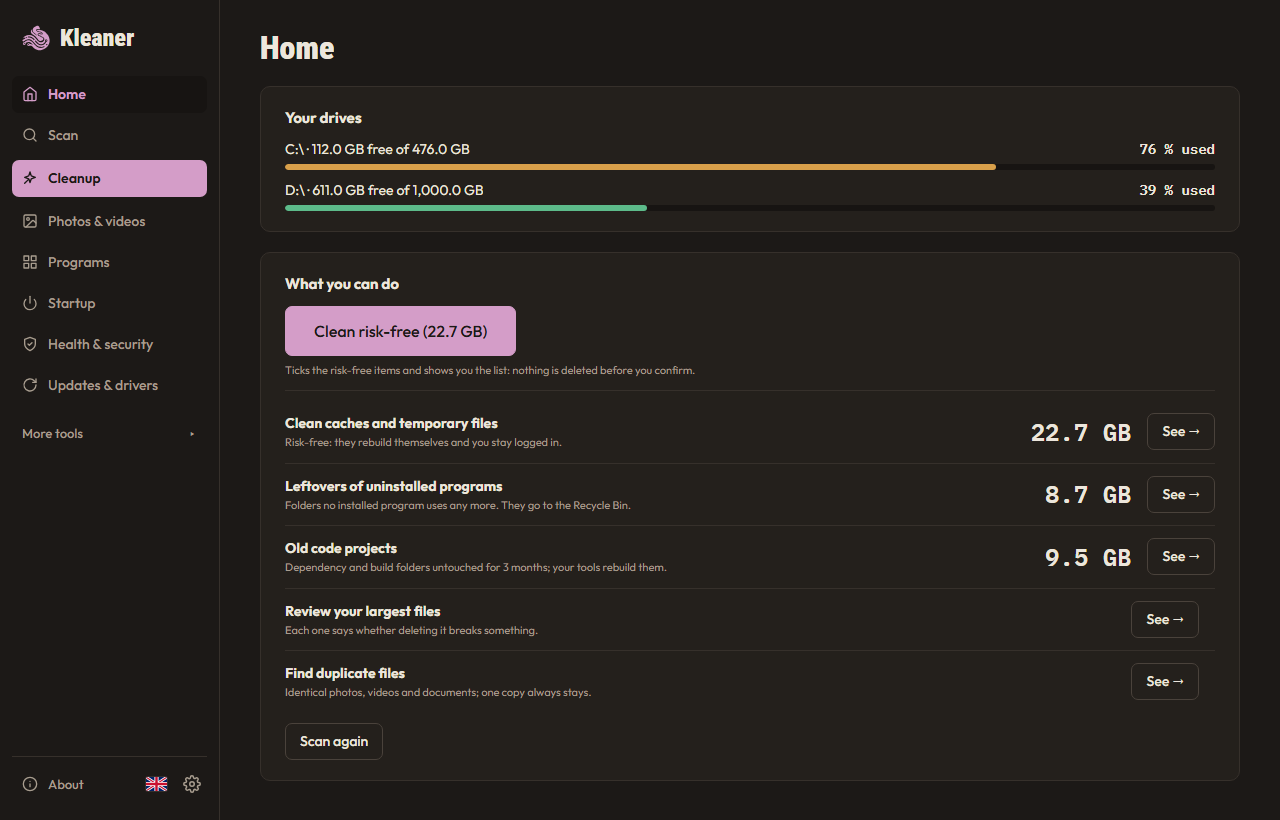
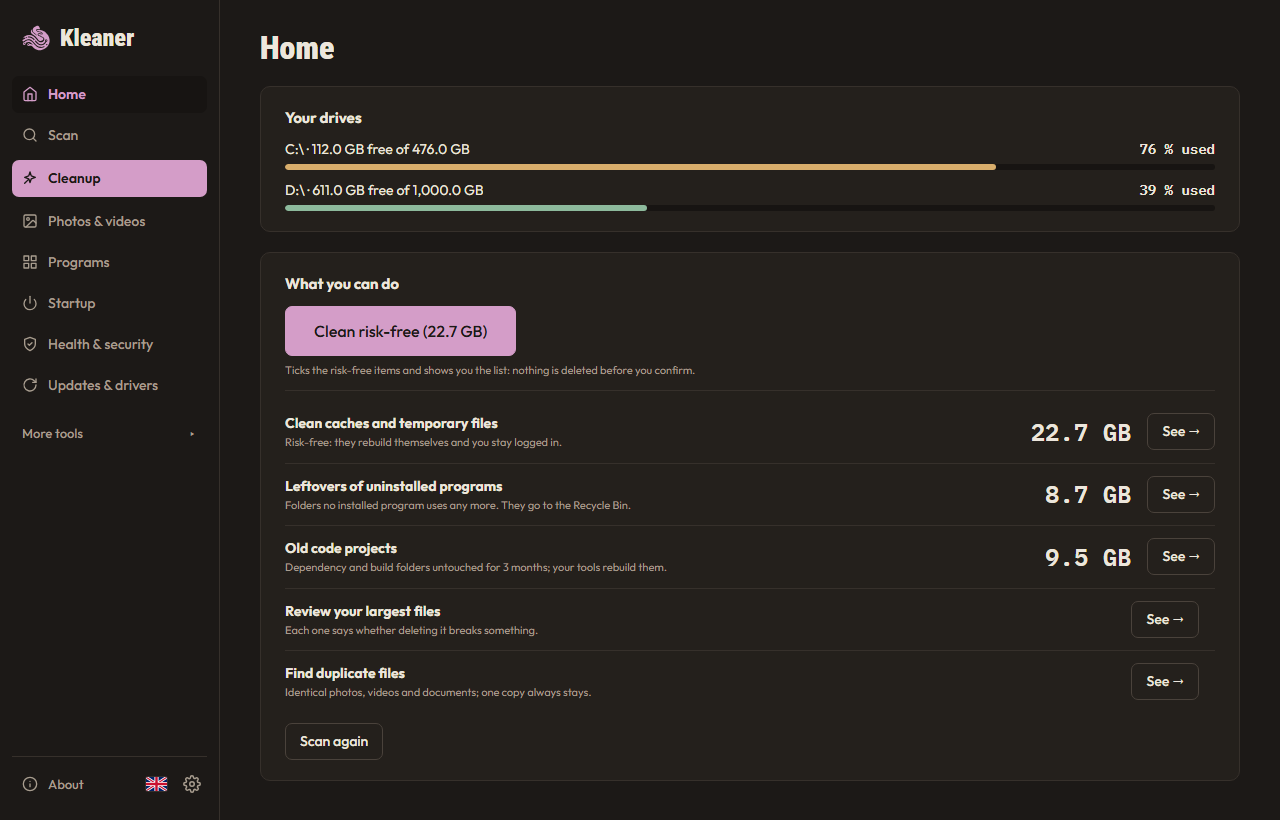
couleurs accordées à l'identité : cases à cocher mauves, statuts en tons terreux, graphique et carte du disque apaisés

Changed region(s): [[0.2188, 0.1829, 0.7812, 0.2134], [0.2188, 0.2439, 0.5, 0.2744]]

diff --git a/src/styles/tokens.css b/src/styles/tokens.css
@@ -27,19 +27,20 @@
   /* Mauve foncé : lisible en texte sur la crème et avec du blanc dessus (contraste >= 4.5:1). */
   --accent: #935683;
   --on-accent: #FFFFFF;
-  /* Couleurs de verdict : jamais le mauve de la marque, pour ne pas confondre accent et alerte. */
-  --danger: #B6324A;
-  --warn: #A6670F;
-  --ok: #2F7D53;
+  /* Couleurs de verdict : tons terreux (sauge, ocre, brique), jamais le mauve de la marque ; texte >= 4.5:1. */
+  --danger: #A23F3A;
+  --warn: #8F6420;
+  --ok: #45725A;
   --shadow: 0 1px 2px rgba(58, 53, 48, 0.05);
 
-  /* Graphiques : couleurs catégorielles, ordre fixe (validées : daltonisme, contraste). */
-  --series-1: #2a78d6;
-  --series-2: #eb6834;
-  --series-3: #1baf7a;
-  --series-4: #eda100;
-  --series-5: #e87ba4;
-  --series-6: #008300;
+  /* Graphiques : couleurs catégorielles accordées à l'identité, ordre fixe ; la légende porte aussi le nom et le %. */
+  --series-1: #935683; /* prune */
+  --series-2: #C17F59; /* terracotta */
+  --series-3: #6E8B6A; /* sauge */
+  --series-4: #C9A24D; /* ocre */
+  --series-5: #5F7FA0; /* bleu gris */
+  --series-6: #8A7B6B; /* taupe */
+  --series-7: #D3CBB8; /* espace libre, neutre */
 
   --radius-card: 10px;
   --radius-ctl: 7px;
@@ -62,16 +63,17 @@
   --border-strong: #4A423B;
   --accent: #D49DC8;
   --on-accent: #1C1917;
-  --danger: #E06C80;
-  --warn: #D9A04A;
-  --ok: #5DBB8A;
+  --danger: #E3897D;
+  --warn: #D9AE6C;
+  --ok: #8DBA9C;
   --shadow: none;
-  --series-1: #3987e5;
-  --series-2: #d95926;
-  --series-3: #199e70;
-  --series-4: #c98500;
-  --series-5: #d55181;
-  --series-6: #008300;
+  --series-1: #D49DC8;
+  --series-2: #E0A27C;
+  --series-3: #9DBB97;
+  --series-4: #E2C278;
+  --series-5: #93B0CF;
+  --series-6: #B8A898;
+  --series-7: #4A423B;
 
   color-scheme: dark;
 }

diff --git a/src/styles/app.css b/src/styles/app.css
@@ -245,6 +245,14 @@ html.mica .sidebar {
 .pill-danger { color: var(--danger); }
 .pill-neutral { color: var(--muted); }
 
+/* Contrôles natifs (cases, radios, curseurs) à la couleur de l'accent, pas le bleu de Windows */
+input[type="checkbox"],
+input[type="radio"],
+input[type="range"],
+progress {
+  accent-color: var(--accent);
+}
+
 /* Buttons */
 .btn {
   font: inherit;
@@ -1182,8 +1190,7 @@ select {
   gap: 6px;
 }
 
-/* Espace libre dans l'anneau : gris neutre */
-:root { --series-7: #a3a29c; }
+/* Espace libre dans l'anneau : neutre (--series-7 dans tokens.css) */
 .donut-arc.series-7 { stroke: var(--series-7); }
 .swatch.series-7 { background: var(--series-7); }
 
@@ -1246,7 +1253,7 @@ select {
 }
 
 .tile-dir rect {
-  fill: var(--series-1);
+  fill: var(--accent);
   fill-opacity: 0.75;
   stroke: var(--card);
   stroke-width: 2;
@@ -1268,13 +1275,13 @@ select {
 }
 
 .tile-label {
-  fill: #fff;
+  fill: var(--on-accent);
   font: 600 13px var(--font-ui);
   pointer-events: none;
 }
 
 .tile-size {
-  fill: #fff;
+  fill: var(--on-accent);
   font: 500 12px var(--font-mono);
   opacity: 0.9;
   pointer-events: none;
